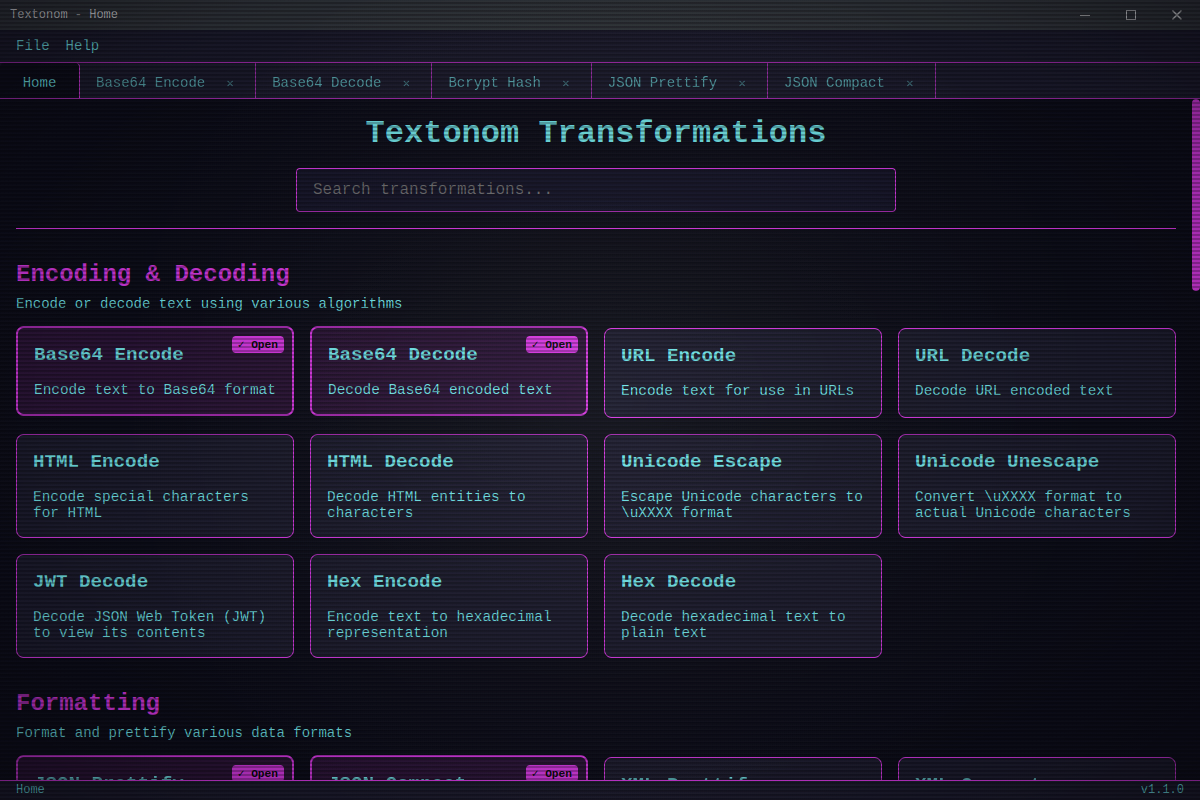
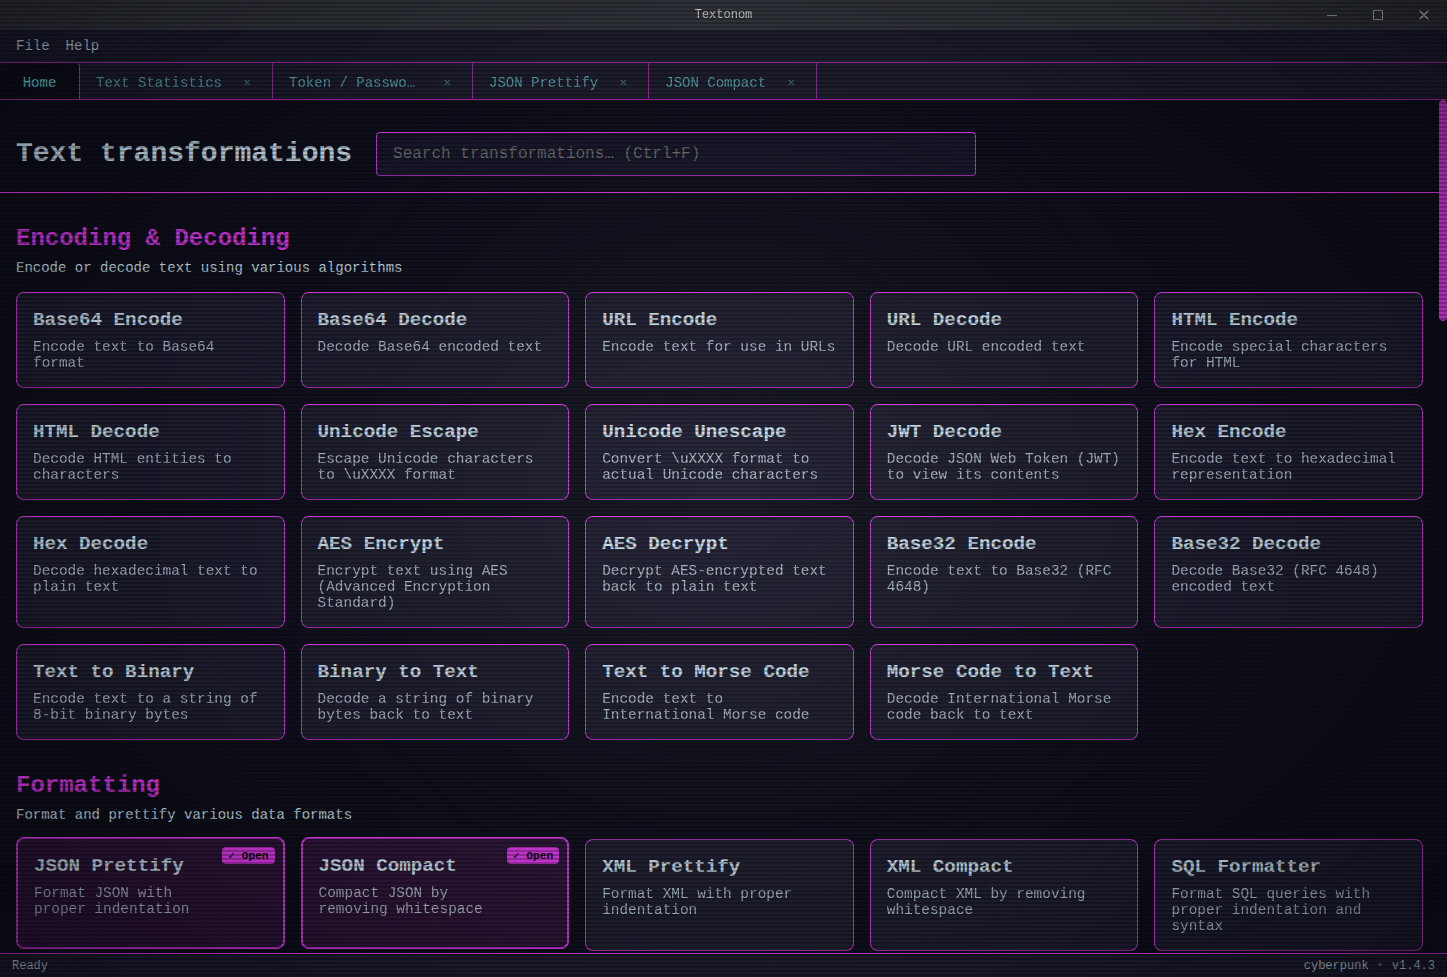
Minor fix of search bar

diff --git a/src/renderer/src/components/HomePage.css b/src/renderer/src/components/HomePage.css
@@ -18,7 +18,9 @@
   border-bottom: 1px solid var(--border);
   position: sticky;
   top: -1rem;
-  z-index: 10;
+  /* Stay below the top-nav's stacking context (z-index 10) so its dropdown
+     menu renders above the pinned header, while still covering page content. */
+  z-index: 5;
   background-color: var(--background);
   /* Offset the .home-page padding so the header spans full width while pinned. */
   margin-left: -1rem;